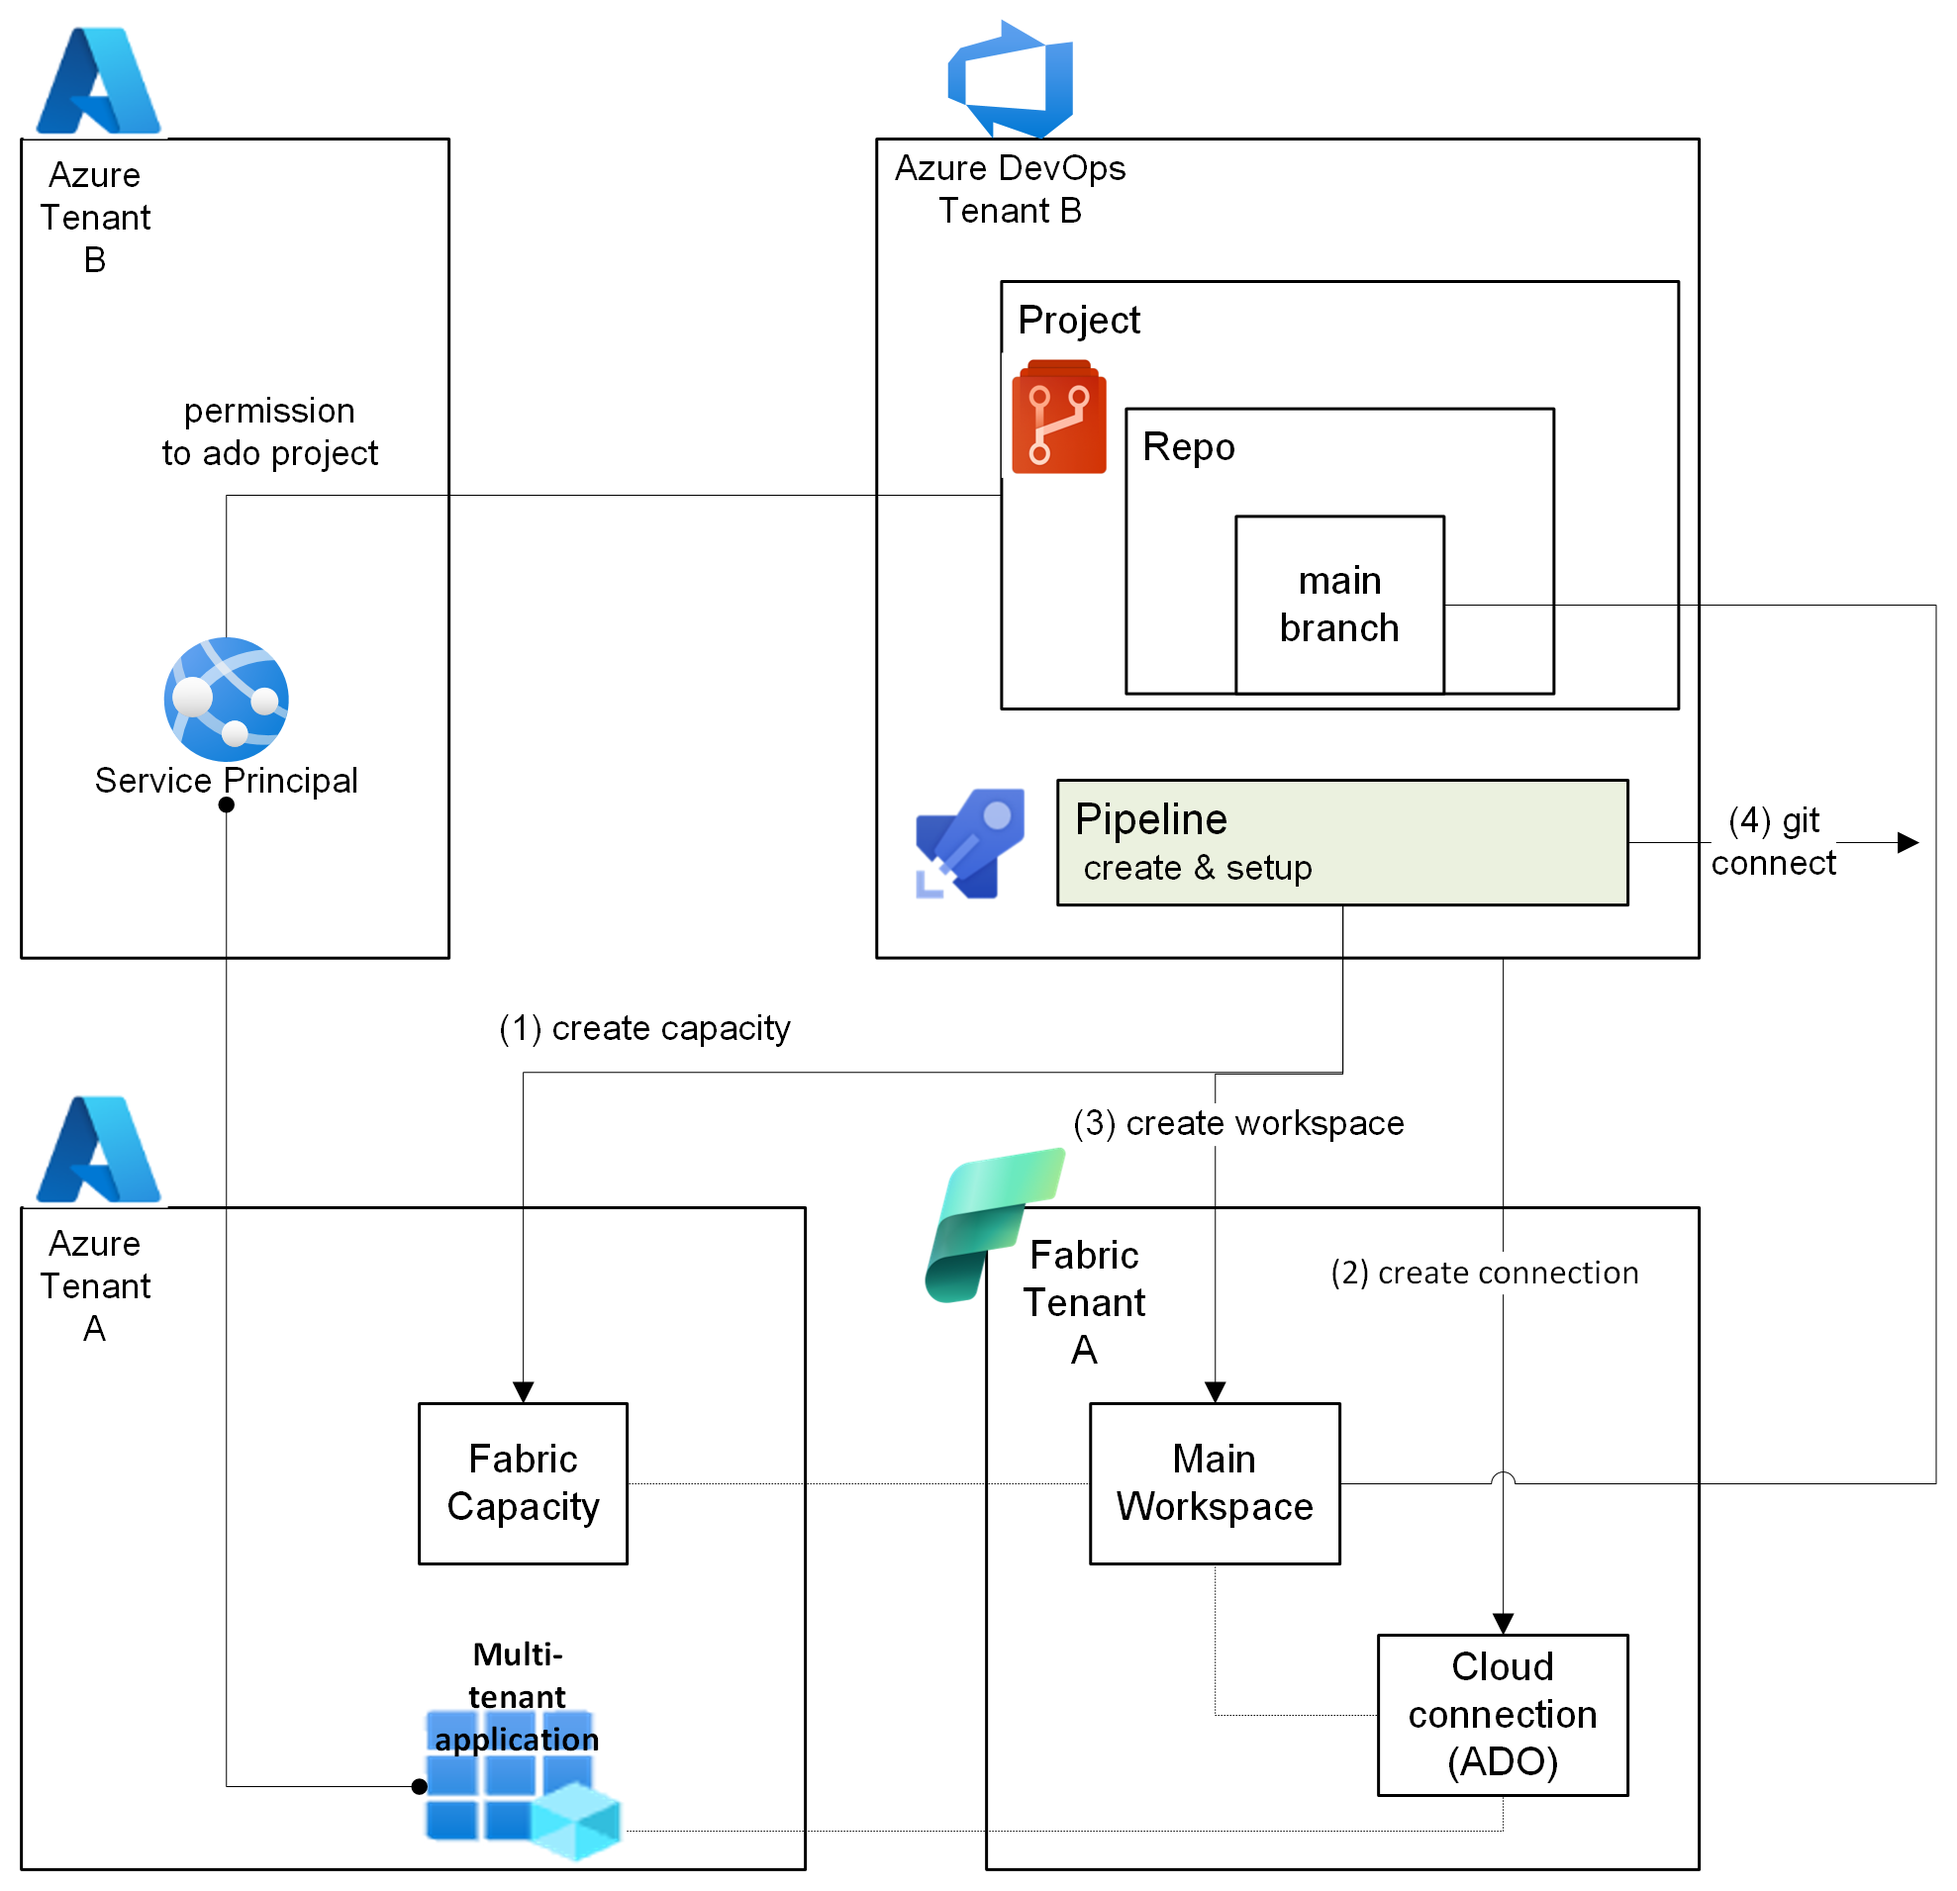
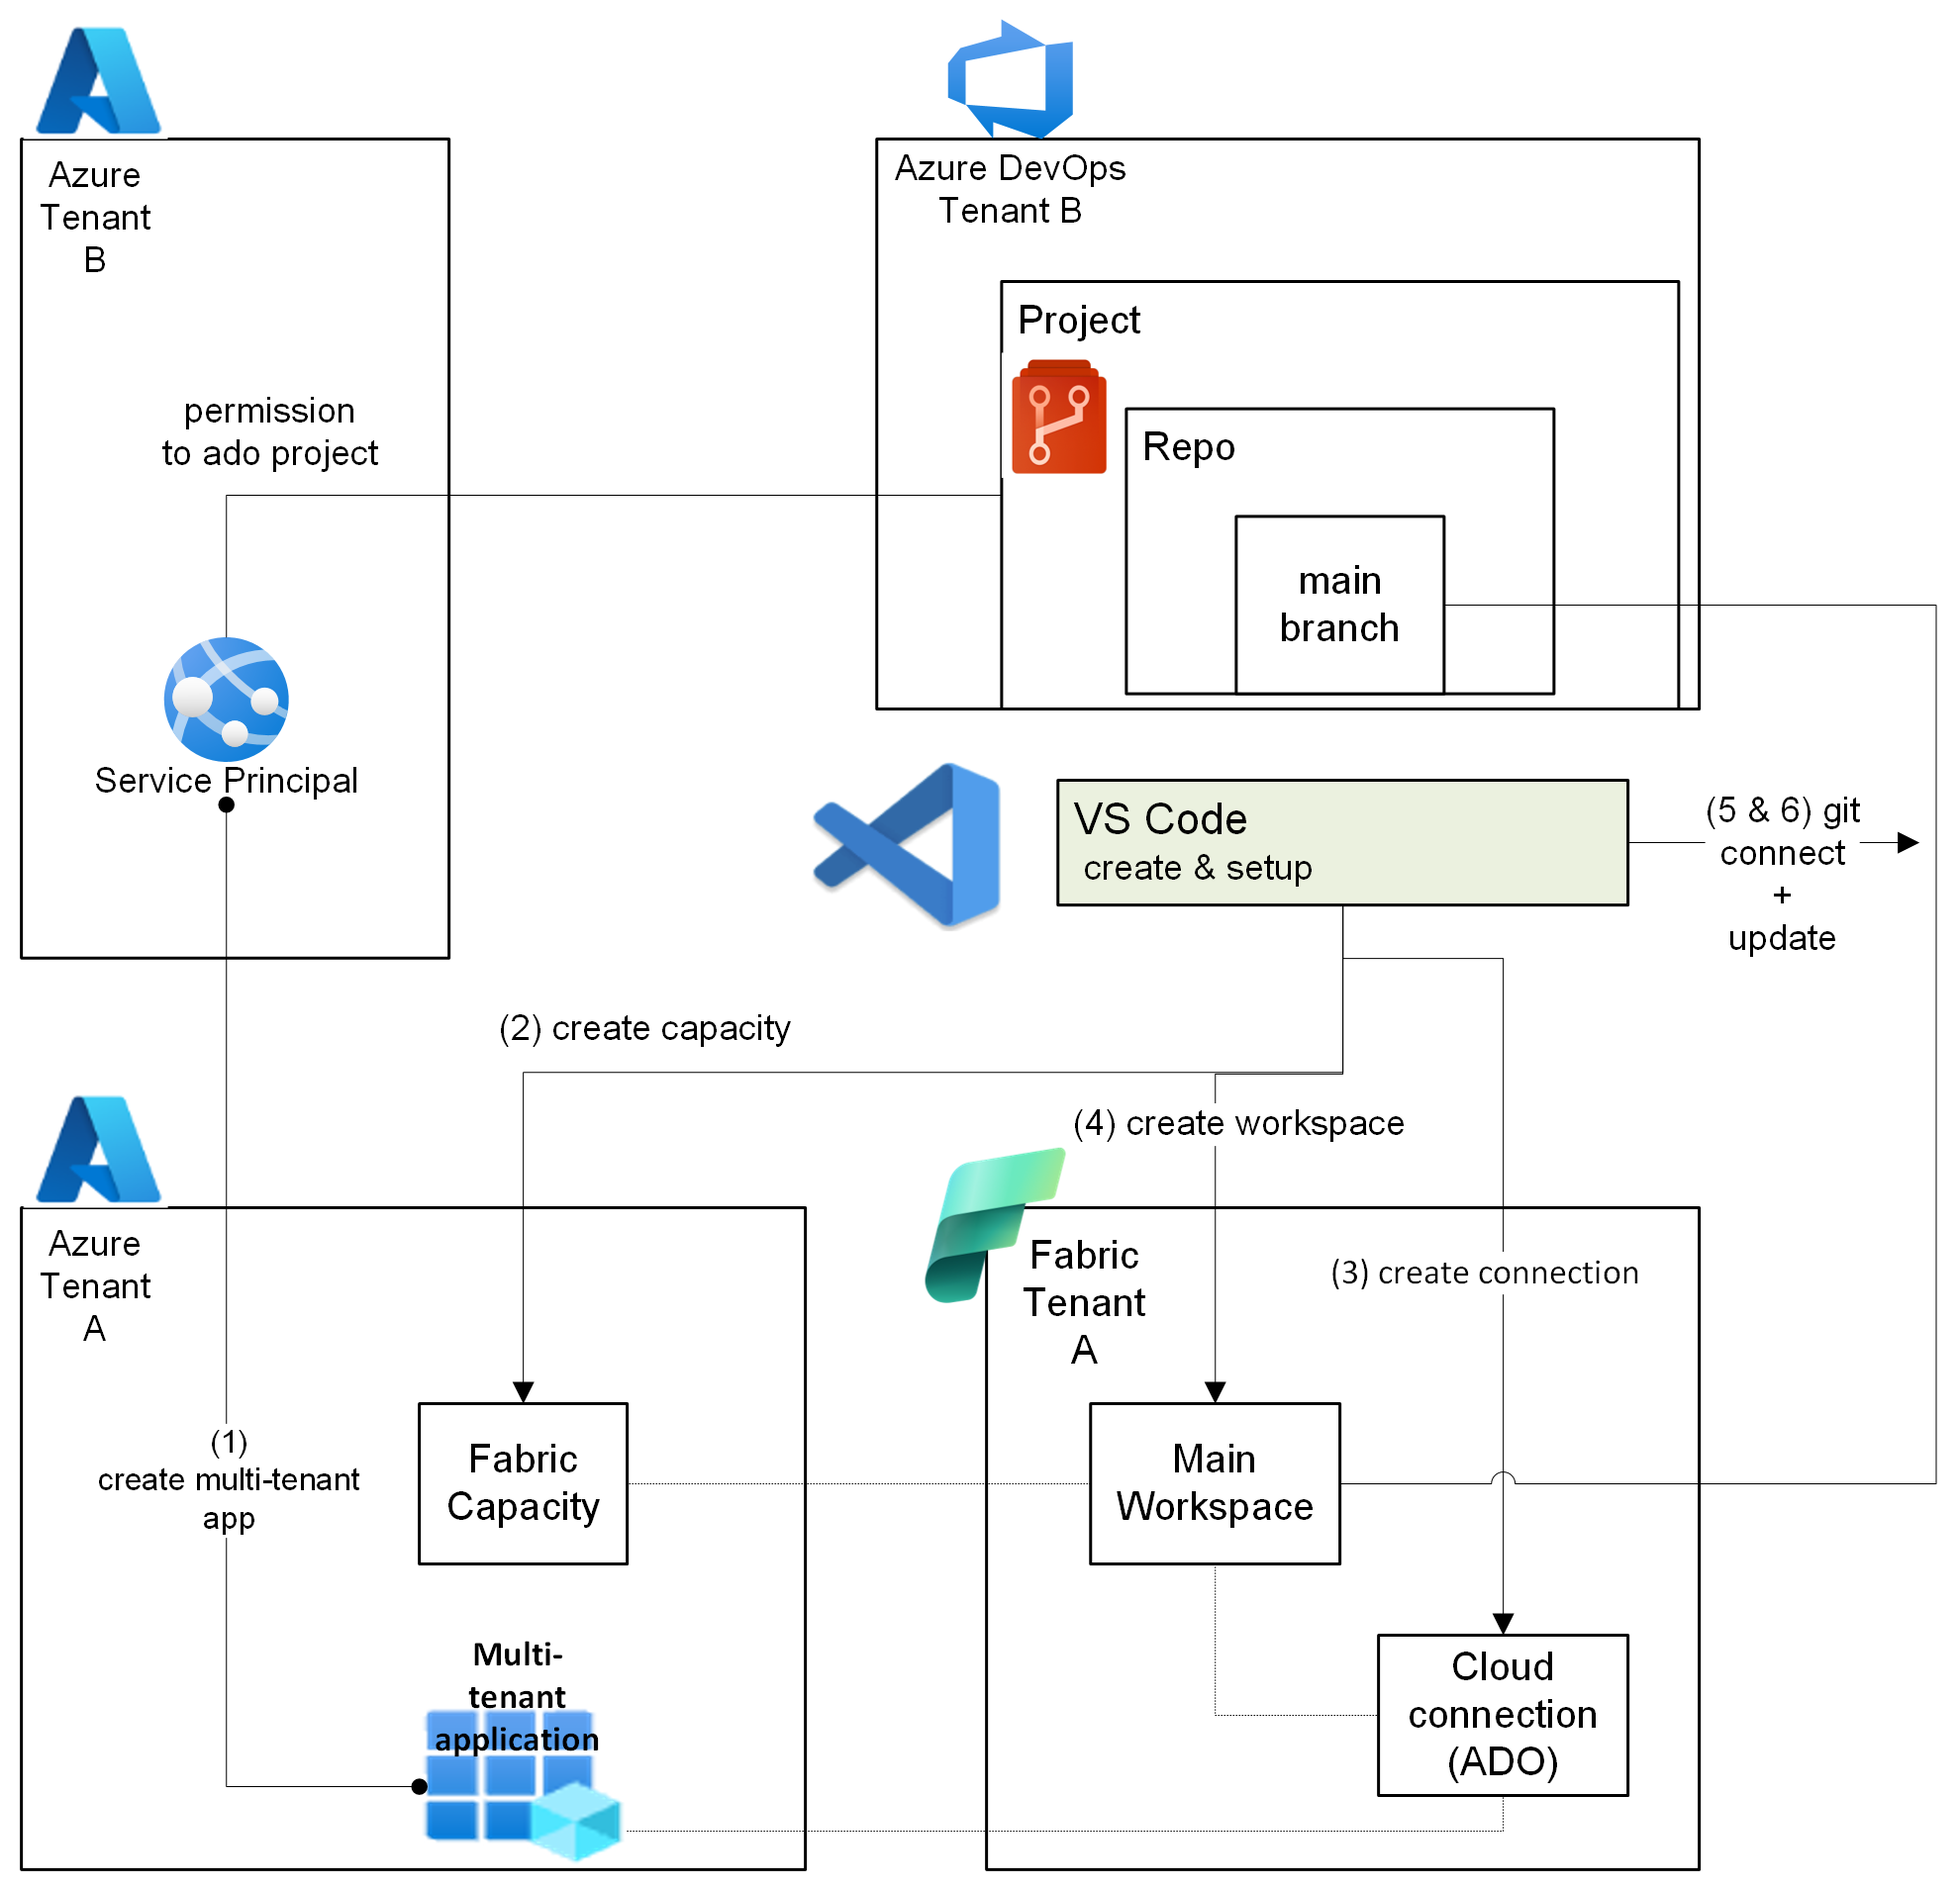
updates

diff --git a/README.md b/README.md
@@ -2,17 +2,17 @@
 This repo represent the Cross-tenant CI-CD automation session for FabCon Vienna 2025.
 
 
-# STEP 1: Infrastructure create & Git setup
-1. Create a Fabric capacity using Terraform
-1. Create ADO cloud connection using Terraform 
-1. Create a main workspaces using Terraform
-1. Connect the workspace to Git repo using the connection from step 1 using Terraform (branch: main)
+# STEP 1: Infrastructure create & Git setup (files for cli can be found under fab-cli folder)
+1. Create a Fabric capacity using CLI 
+1. Create ADO cloud connection using Terraform/CLI
+1. Create a main workspaces using Terraform/CLI
+1. Connect the workspace to Git repo using the connection from step 1 using Terraform/CLI (branch: main)
 
 
-The Git folder contains the following items:
-1. data pipeline with variable library
-1. copyjob with variable library
-1. notebook using variable library
+The Git folder (workspace-files folder) contains the following items:
+1. Data pipeline  with copy-data task
+1. Variable library with value-sets for main/dev/test
+1. Lakehouse
 
 ![alt text](img/FabCon2025-Vienna.png)
 
@@ -20,6 +20,6 @@ The Git folder contains the following items:
 1. Create feature workspace by using `Branch-out` operartion via Fabric UI 
 1. Work with variable library, develop some items, save and commit
 1. Create PR from dev -> main branch
-1. Via ADO pipeline automation - update main workspace using Fabric Git `update-from-git` REST API
+1. Via ADO pipeline automation - update main workspace using Fabric CLI by calling `update-from-git` api
 
 ![alt text](img/FabCon2025-Vienna-step2.png)
